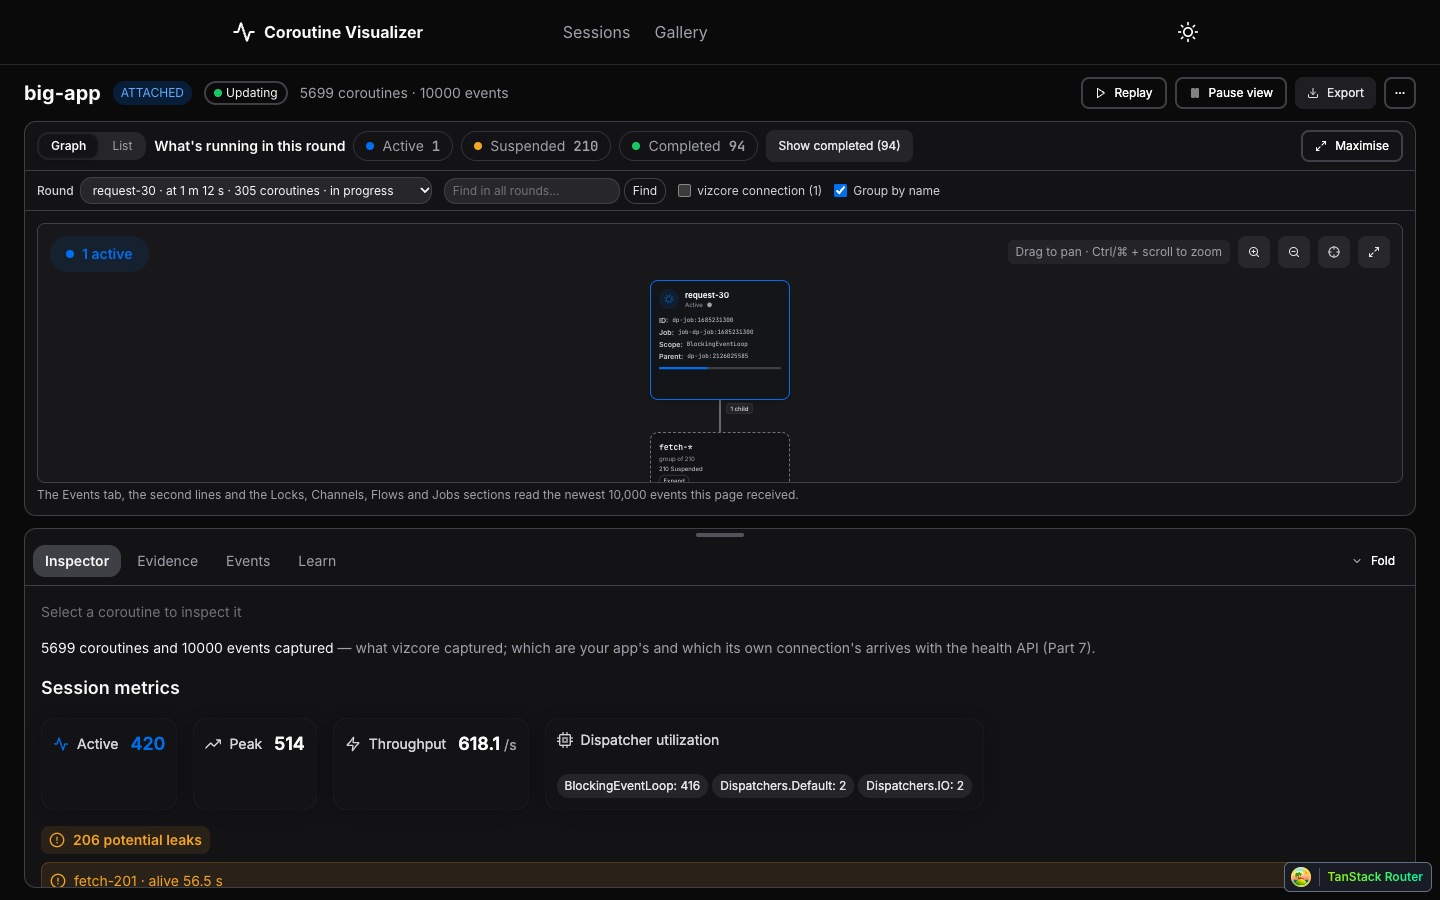
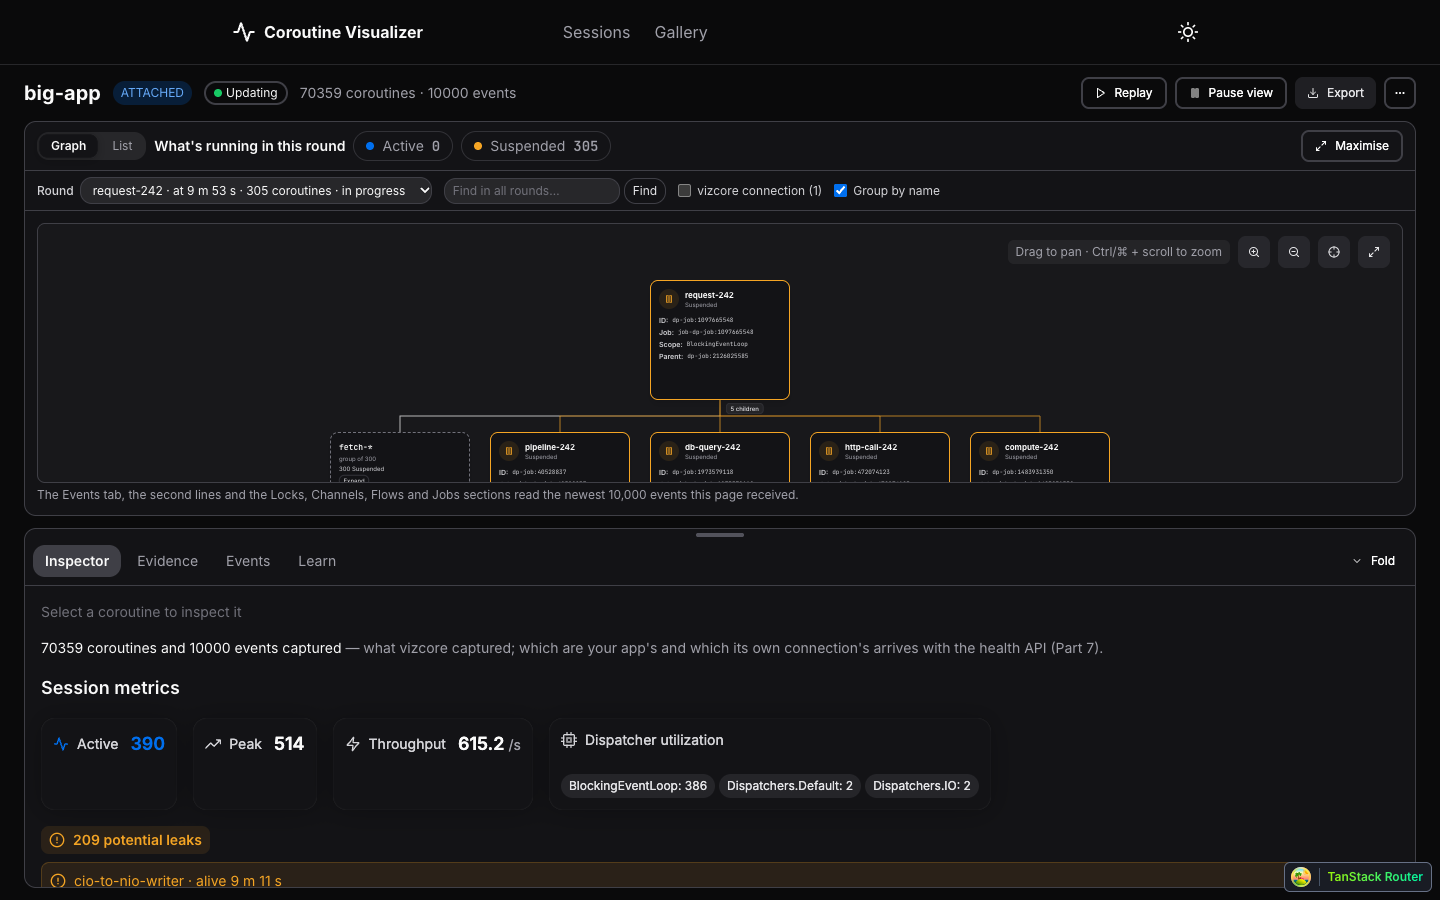
Part 6b: Codex review R2 fixes (shown descendants keep their group, linear visibility, the cap keeps ancestry, the note's coroutine count)
Claude-Session: https://claude.ai/code/session_01W1v63uErFTcSoWqE152KLG

diff --git a/frontend/src/lib/round-view.ts b/frontend/src/lib/round-view.ts
@@ -315,12 +315,18 @@ export function capRendered(
   forcedIds: ReadonlySet<string>,
 ): { rendered: CoroutineNode[]; total: number; hidden: number; found: number } {
   if (pool.length <= cap) return { rendered: [...pool], total: pool.length, hidden: 0, found: 0 }
-  const kept = new Set(
-    pool
-      .map(c => c.id)
-      .sort()
-      .slice(0, cap),
-  )
+  // The cap spends its cards on whole paths: each card kept brings the ancestors it is missing (within the cap), so no
+  // kept card is drawn without its parents, and an expanded group keeps its card and its parent.
+  const byId = new Map(pool.map(c => [c.id, c]))
+  const kept = new Set<string>()
+  for (const id of pool.map(c => c.id).sort()) {
+    if (kept.has(id)) continue
+    const path: string[] = []
+    for (let c = byId.get(id); c && !kept.has(c.id); c = c.parentId ? byId.get(c.parentId) : undefined) path.push(c.id)
+    if (kept.size + path.length > cap) continue
+    for (const p of path) kept.add(p)
+    if (kept.size === cap) break
+  }
   const rendered = pool.filter(c => kept.has(c.id) || forcedIds.has(c.id))
   const found = rendered.length - kept.size
   return { rendered, total: pool.length, hidden: pool.length - rendered.length, found }

diff --git a/frontend/src/lib/name-groups.test.ts b/frontend/src/lib/name-groups.test.ts
@@ -85,6 +85,24 @@ describe('groupSiblings (S-12: siblings only, ancestry never hidden)', () => {
     expect(ids(groupSiblings(cs, NONE, new Set(['r'])).nodes)).toEqual(['r'])
   })
 
+  it('shows a collapsed group whose members are filtered out when something below them is shown', () => {
+    const cs = [
+      node('r'),
+      node('o1', { parentId: 'r', label: 'order-1', state: CoroutineState.SUSPENDED }),
+      node('o2', { parentId: 'r', label: 'order-2', state: CoroutineState.SUSPENDED }),
+      node('kid', { parentId: 'o1', label: 'charge', state: CoroutineState.ACTIVE }),
+    ]
+    const id = groupIdOf(cs[1]!)!
+    expect(ids(groupSiblings(cs, NONE, new Set(['r', 'kid'])).nodes)).toEqual(['r', id])
+  })
+
+  it('stays linear with many siblings none of which is shown', () => {
+    const many = [node('r', { state: CoroutineState.ACTIVE }), ...Array.from({ length: 20_000 }, (_, i) => node(`s${i}`, { parentId: 'r', label: `fetch-${i}` }))]
+    const started = performance.now()
+    groupSiblings(many, NONE, new Set(['r']))
+    expect(performance.now() - started).toBeLessThan(500)
+  })
+
   it('keeps two parents’ order-* children apart', () => {
     const cs = [
       node('a'),

diff --git a/frontend/src/lib/name-groups.ts b/frontend/src/lib/name-groups.ts
@@ -107,6 +107,8 @@ export function groupSiblings(
   // groups down there included).
   const hidden = new Set<string>()
   const hiddenBelow = new Set<string>()
+  // Decided once per group: a card is drawn while a member, or anything below the members, is shown.
+  const visible = new Set<string>()
   for (const [id, members] of byGroup) {
     if (members.length < 2) continue
     const first = members[0]!
@@ -126,6 +128,7 @@ export function groupSiblings(
       expanded: isExpanded,
     })
     for (const m of memberIds) groupOf.set(m, id)
+    if (!shown || memberIds.some(m => shown.has(m)) || [...descendants].some(d => shown.has(d))) visible.add(id)
     if (!isExpanded) {
       for (const m of memberIds) hidden.add(m)
       for (const d of descendants) {
@@ -138,7 +141,7 @@ export function groupSiblings(
   const placed = new Set<string>()
   for (const c of coroutines) {
     const gid = groupOf.get(c.id)
-    if (gid && !placed.has(gid) && !hiddenBelow.has(c.id) && (!shown || groups.get(gid)!.memberIds.some(m => shown.has(m)))) {
+    if (gid && !placed.has(gid) && !hiddenBelow.has(c.id) && visible.has(gid)) {
       placed.add(gid)
       const g = groups.get(gid)!
       nodes.push({

diff --git a/frontend/src/components/SessionWorkspace.tsx b/frontend/src/components/SessionWorkspace.tsx
@@ -343,7 +343,8 @@ export function SessionWorkspace({
       if (gid && grouped.groups.has(gid)) forcedCards.add(gid)
     }
     const capped = capRendered(grouped.nodes, NODE_CAP, forcedCards)
-    return { renderedCoroutines: capped.rendered, cap: capped, groups: grouped.groups, poolSize: shown.length }
+    // The note names the coroutines in the view (every state), as the group cards' counts do.
+    return { renderedCoroutines: capped.rendered, cap: capped, groups: grouped.groups, poolSize: viewCoroutines.length }
   }, [stateFilter, showCompleted, allFinished, viewCoroutines, activeCoroutines, viewLeakIds, forcedIds, grouping, expandedGroups])
 
   // Unfinished children per parent, over the whole snapshot: the "Waiting for N

diff --git a/frontend/src/lib/round-view.test.ts b/frontend/src/lib/round-view.test.ts
@@ -413,3 +413,14 @@ describe('capNote unit', () => {
     )
   })
 })
+
+describe('capRendered keeps ancestry', () => {
+  it('draws the parents of every coroutine it keeps, even when their ids sort past the cap', () => {
+    const kids = Array.from({ length: 300 }, (_, i) => node(`f${String(i).padStart(3, '0')}`, { parentId: 'zz-group' }))
+    const pool = [node('zz-root'), node('zz-group', { parentId: 'zz-root' }), ...kids]
+    const r = capRendered(pool, 200, new Set())
+    expect(r.rendered.map(c => c.id)).toEqual(expect.arrayContaining(['zz-root', 'zz-group']))
+    expect(r).toMatchObject({ total: 302, found: 0 })
+    expect(r.rendered).toHaveLength(200)
+  })
+})
